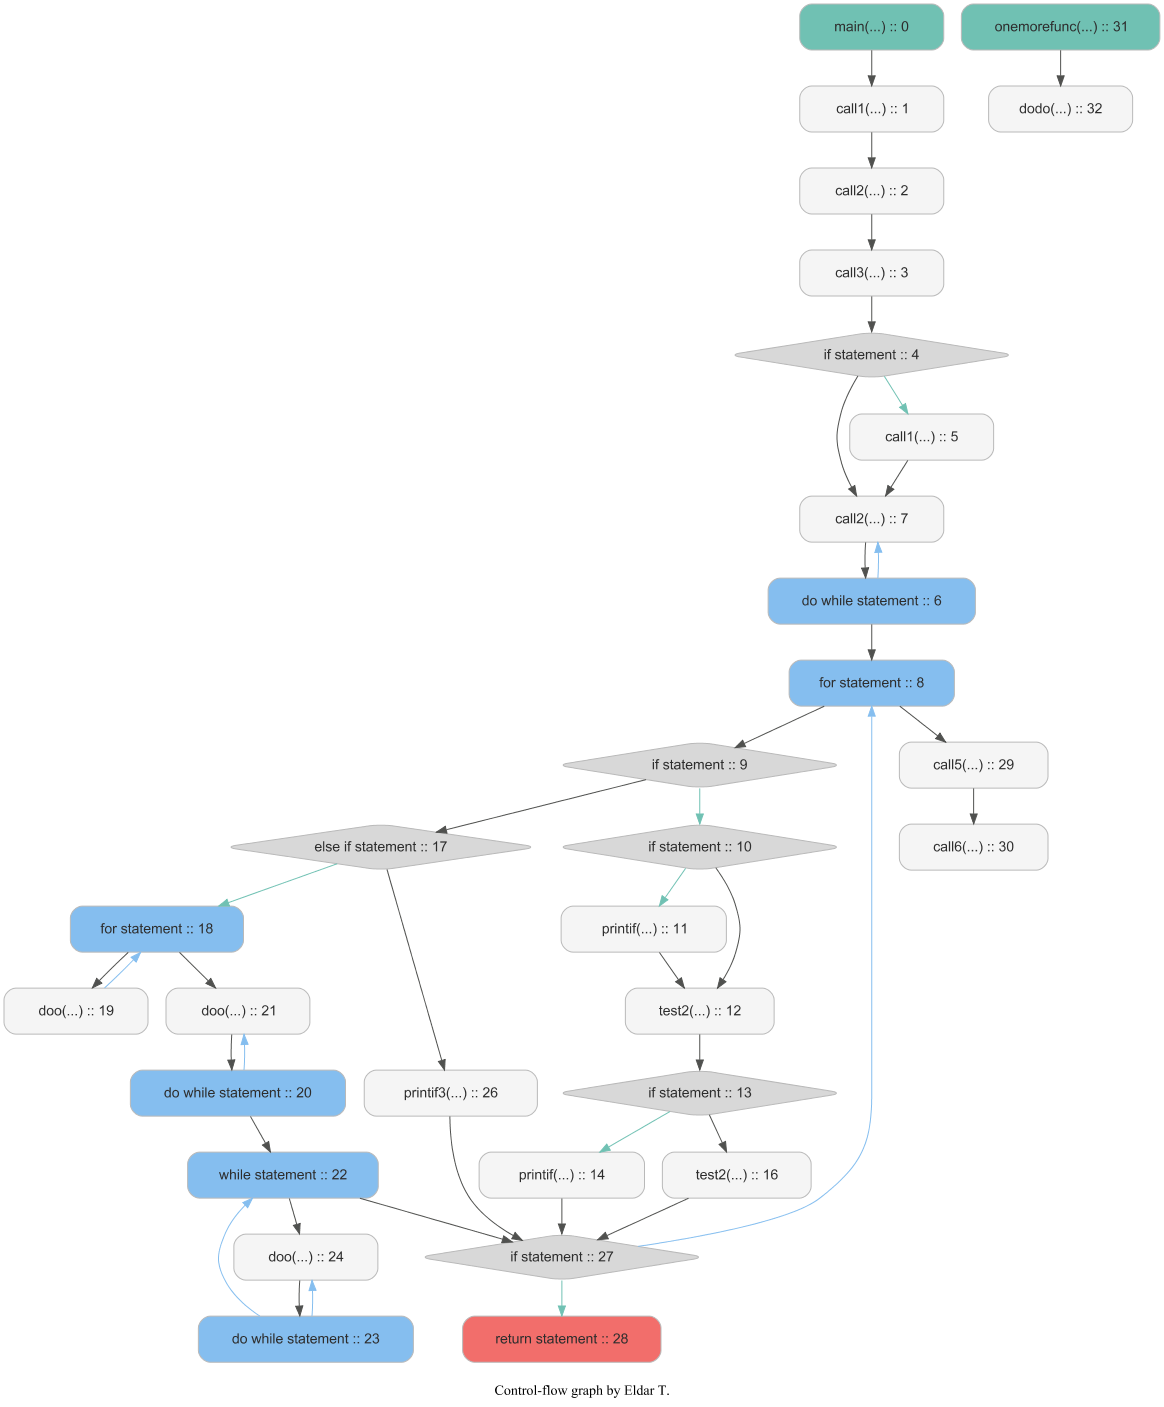
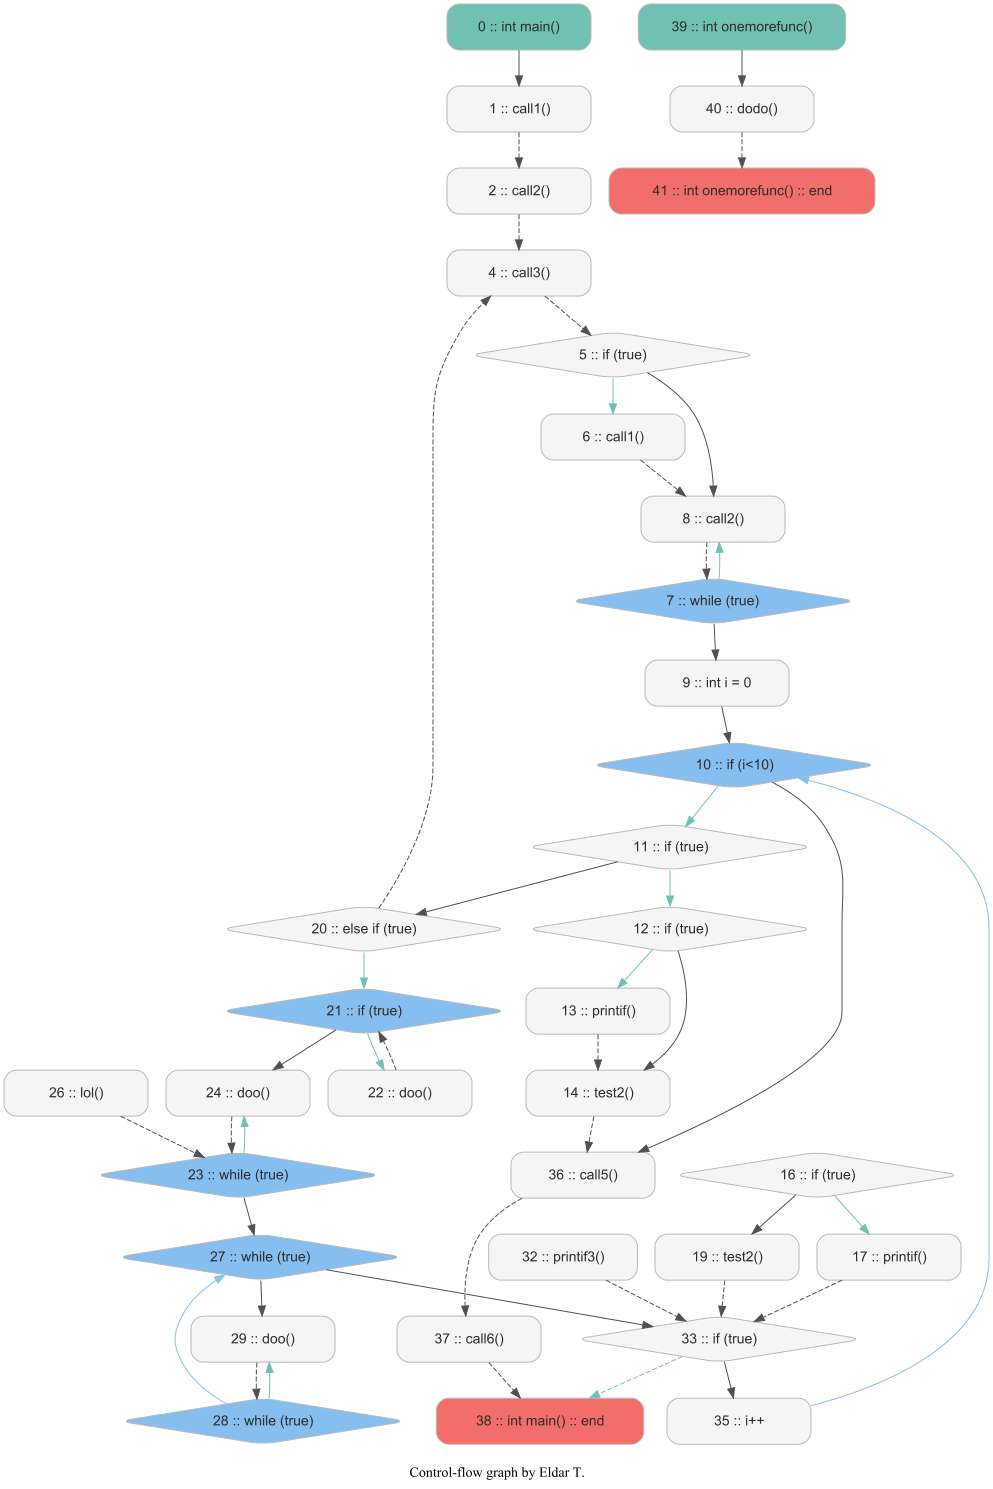
ReadMe update

diff --git a/README.md b/README.md
@@ -16,37 +16,42 @@ This graph shows the result for this `C` code:
 ```C
 int main()
 {
-    call1();
-    call2();
-    call3();
+	call1();
+	call2();
+label:
+	call3();
 
     if (true) { call1(); }
     do { call2(); } while (true);
 
-    for(;;) {
-        if (true) {
-            if (true) printif();
-            test2();
-
+	for (int i = 0; i < 10; i++) {
+		if (true) {
+			if (true) printif();
+			test2();
+            break;
+			
             if (true) printif();
             else test2();
-        }
-        // Comment block
-        else if (true) {
-            for(;;) { doo(); }
-            do { doo(); } while(true); /* This is comment. */
-            while(true) { do { doo(); } while(true); }
-        }
-        else printif3();
+		}
+		// Comment block
+		else if (true) {
+		    for(;;) { doo(); }
+		    do { doo(); continue; lol(); } while(true); /* This is comment. */
+		    while(true) { do { doo(); } while(true); }
+		}
+		else {
+		    goto label;
+		    printif3();
+		}
 
-        if (true) { return; }
-    }
-    
-    call5();
-    call6();
+		if (true) { return; }
+	}
+
+	call5();
+	call6();
 }
 
 int onemorefunc() {
-    dodo();
+	dodo();
 }
 ```
